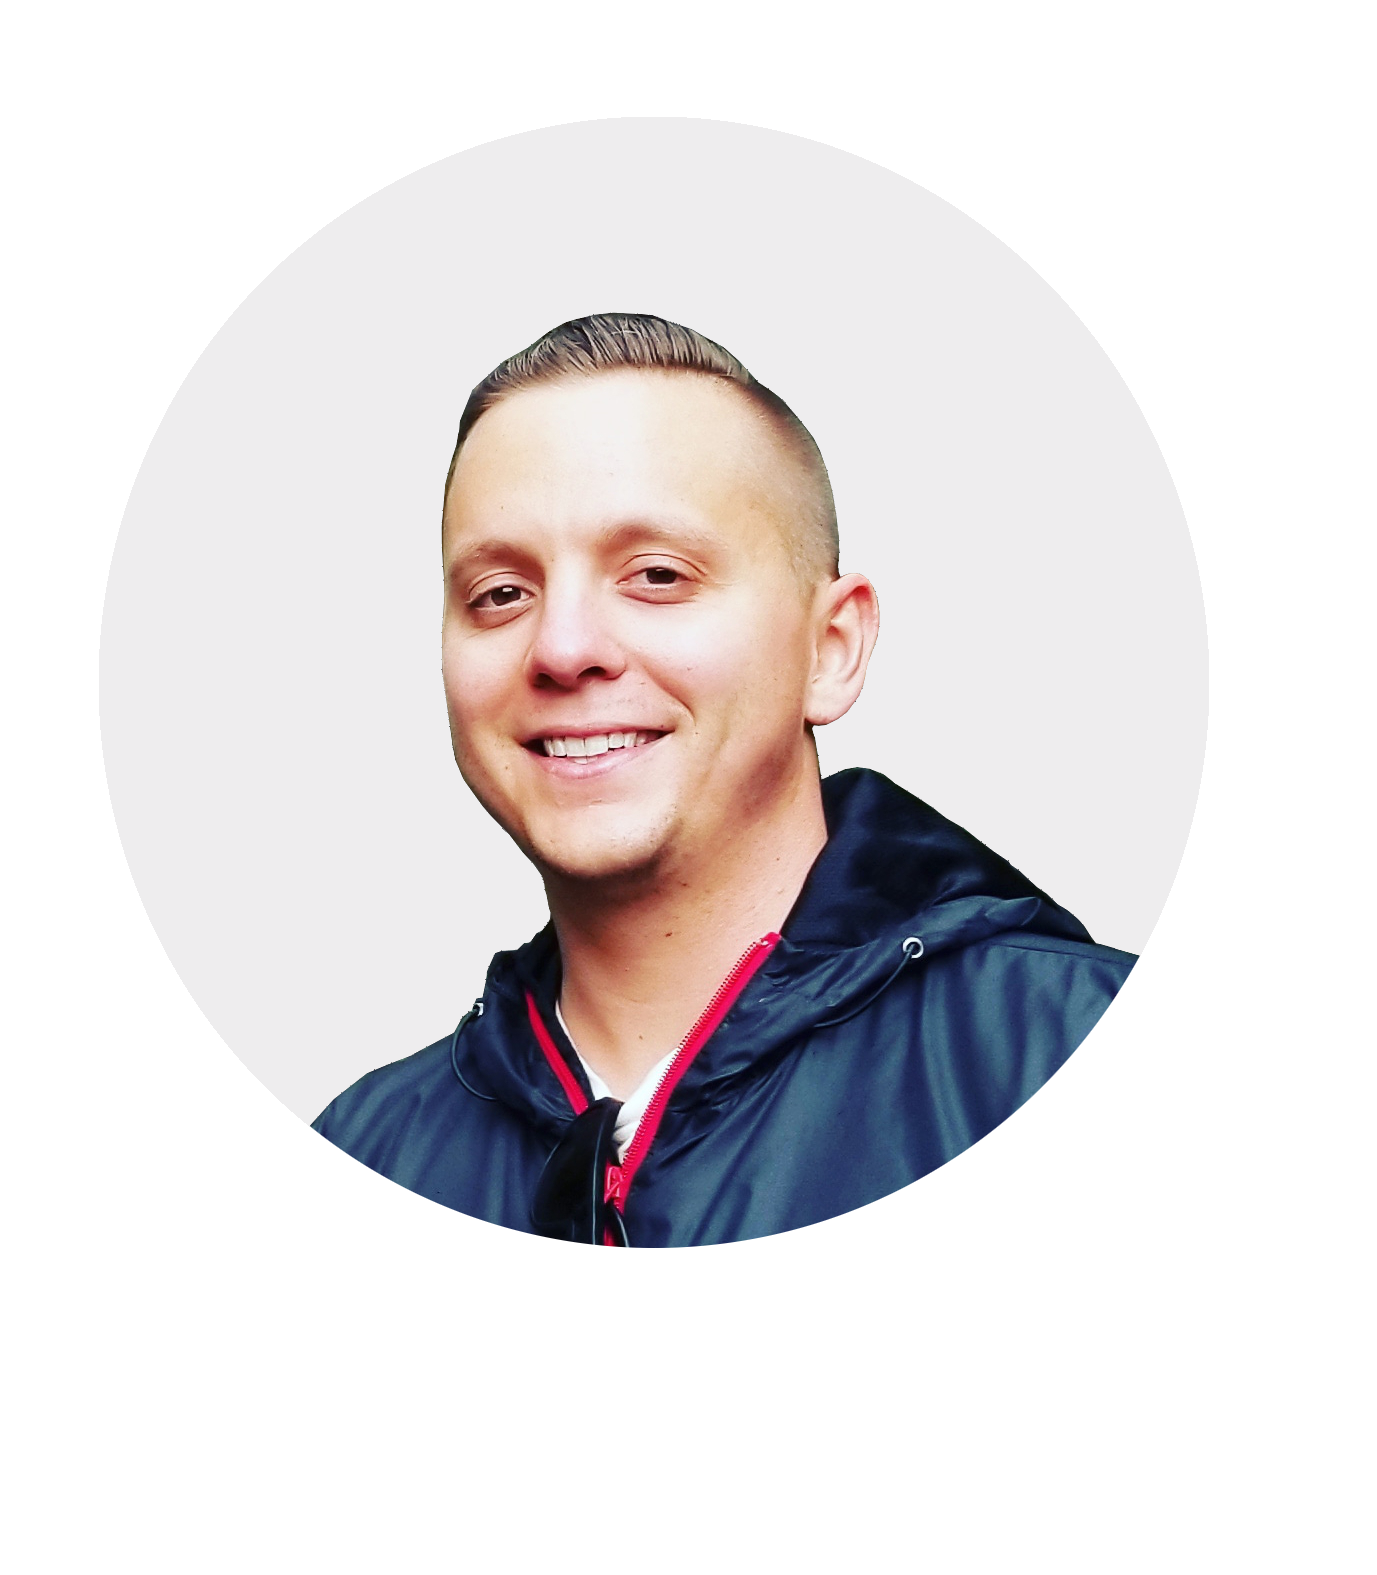
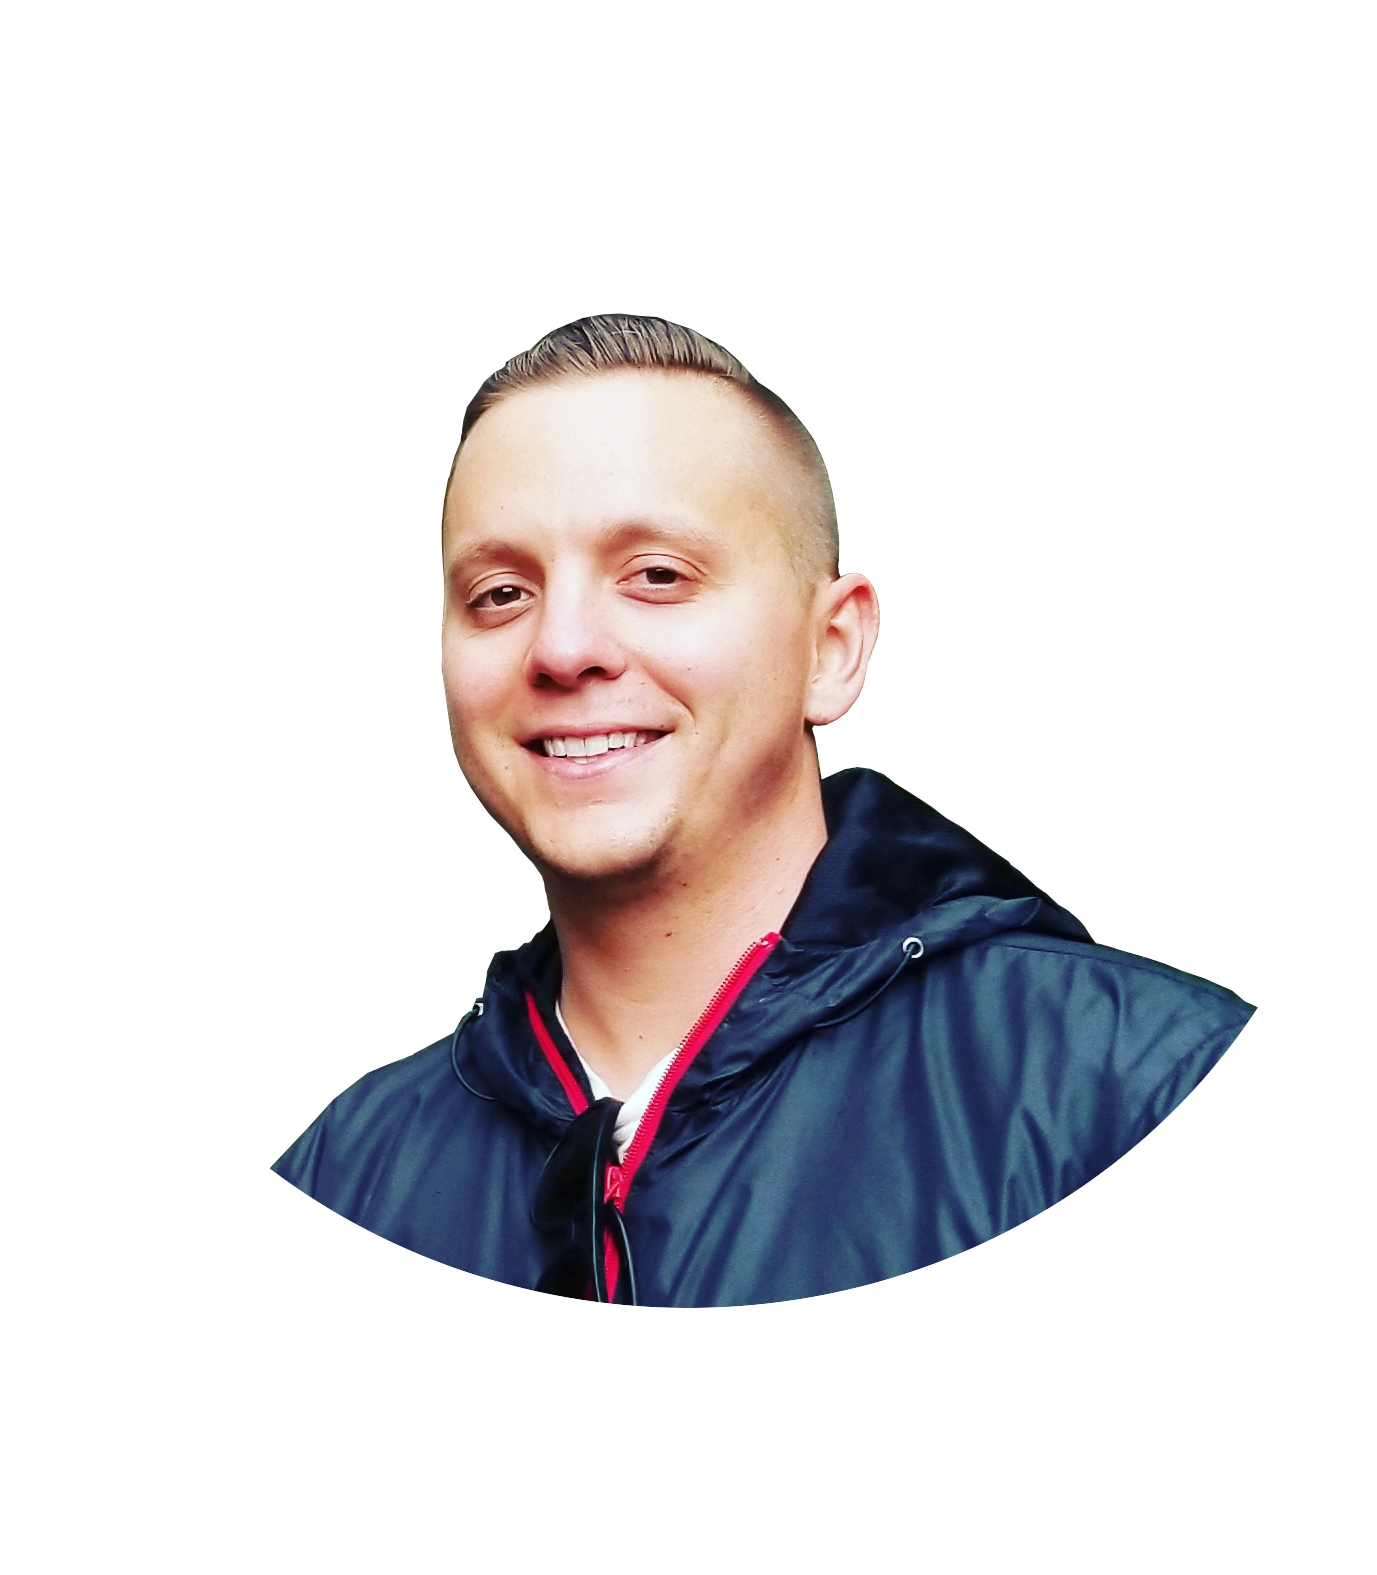
working on mobile bg fix

Changed region(s): [[0.1874, 0.5911, 0.9056, 0.84]]

diff --git a/src/assets/sass/main.scss b/src/assets/sass/main.scss
@@ -217,6 +217,8 @@ html {
 	-o-background-size: cover;
 	width: 100%;
 	height: 100%;
+	// transition: height 999999s;
+	
 }
 
 
@@ -234,14 +236,14 @@ html {
 	}
 
 	&.is-touch {
-		height: 100vh;
+		height: 100%;
 		overflow: hidden;
 
 		#wrapper {
 			-webkit-backface-visibility: hidden;
 			-webkit-overflow-scrolling: touch;
 			-webkit-transform: translate3d(0, 0, 0);
-			height: 100vh;
+			height: 100%;
 			overflow: auto;
 		}
 	}
@@ -1634,15 +1636,18 @@ button,
 /* Header */
 
 #header {
-	height: 100vh;
+	height: 100%;
 	position: relative;
 	text-align: center;
+	transition: height 999999s;
 
 	&:after {
 		content: '';
 		display: inline-block;
 		height: 100vh;
 		vertical-align: middle;
+		transition: height 999999s;
+		
 	}
 
 	header {
@@ -1961,10 +1966,10 @@ button,
 	/* Section */
 
 	#one {
-		height: 100vh;
+		// height: 100vh;
 
 		.container {
-			height: 100vh;
+			// height: 100vh;
 		}
 	}
 
@@ -2017,11 +2022,11 @@ button,
 	/* Header */
 
 	#header {
-		height: 100vh;
+		// height: 100%;
 
-		&:after {
-			height: 100vh;
-		}
+		// &:after {
+		// 	height: 100%;
+		// }
 
 		header {
 			padding-bottom: 0;
@@ -2064,23 +2069,43 @@ button,
 	$size-padding-lr: 1em;
 
 	/* Basic */
+	
 
-
-
-	html:before {
-		content: "";
-		display: block;
-		position: fixed;
+	html {
+		// overflow: hidden;
+		background-position: center center;
+		background-attachment: fixed;
+		background-repeat: no-repeat;
+	// background-size: cover;
+	// -webkit-background-size: cover;
+	// -moz-background-size: cover;
+	// -o-background-size: cover;
 		left: 0;
 		top: 0;
+// 		min-width: 100%;
+//   min-height: 100%;
 		width: 100%;
-		height: 100%;
-		z-index: -10;
-		background: url('../images/austinlake3.gif') no-repeat center center;
-		-webkit-background-size: cover;
-		-moz-background-size: cover;
-		-o-background-size: cover;
-		background-size: cover;
+		height: 100vh;
+		// min-height: -webkit-fill-available;
+		// z-index: -10;
+		// transition: height 999999s;
+		background-image: url('../images/austinlake3.gif');
+		// overflow: hidden;
+		// overflow-y: scroll;
+		// -webkit-overflow-scrolling:touch;
+	}
+	
+	
+	
+	html:before {
+		// position: fixed;
+		// left: 0;
+		// top: 0;
+		// width: 100%;
+		// height: 100vh;
+		// z-index: -10;
+		// background-image: url('../images/austinlake3.gif');
+		// background-size: cover;
 	}
 
 	/* List */

diff --git a/src/pages/index.js b/src/pages/index.js
@@ -32,10 +32,10 @@ const sections = [
   { id: 'three', bg: require('../assets/images/rocks.jpg') },
   { id: 'footer', bg: require('../assets/images/rocks.jpg') },
 ];
+
 const IndexPage = () => (
   <Layout>
     <Header id="header" />
-
     <section id="one" className="main special">
       <div className="container">
         <div className="content">
